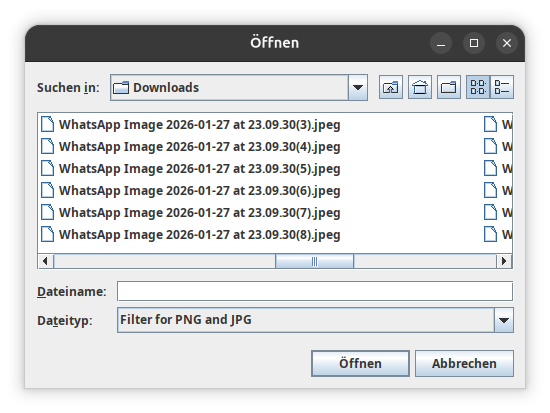
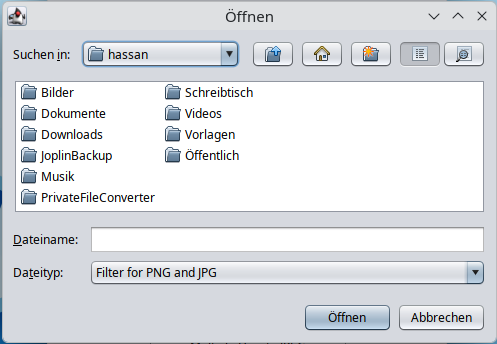
added nimbus theme to the ui and new screenshots

diff --git a/src/main/java/org/example/Main.java b/src/main/java/org/example/Main.java
@@ -4,6 +4,19 @@ import javax.swing.*;
 
 public class Main {
     public static void main(String[] args) {
+
+        // Load Available Themes from the UIMANAGER
+        // Check for Nimbus and set it as the LookAndFeel of the UI
+        try {
+            for (UIManager.LookAndFeelInfo info : UIManager.getInstalledLookAndFeels()) {
+                if ("Nimbus".equals(info.getName())) {
+                    UIManager.setLookAndFeel(info.getClassName());
+                    break;
+                }
+            }
+        } catch (Exception e) {
+            // If Nimbus is not available, you can set the GUI to another look and feel.
+        }
         // #1 Init First Window Components (Frames, Buttons, etc.)
         JFrame mainFrame = new JFrame();
         JButton imgToPdfButton = new JButton("Image to PDF");
